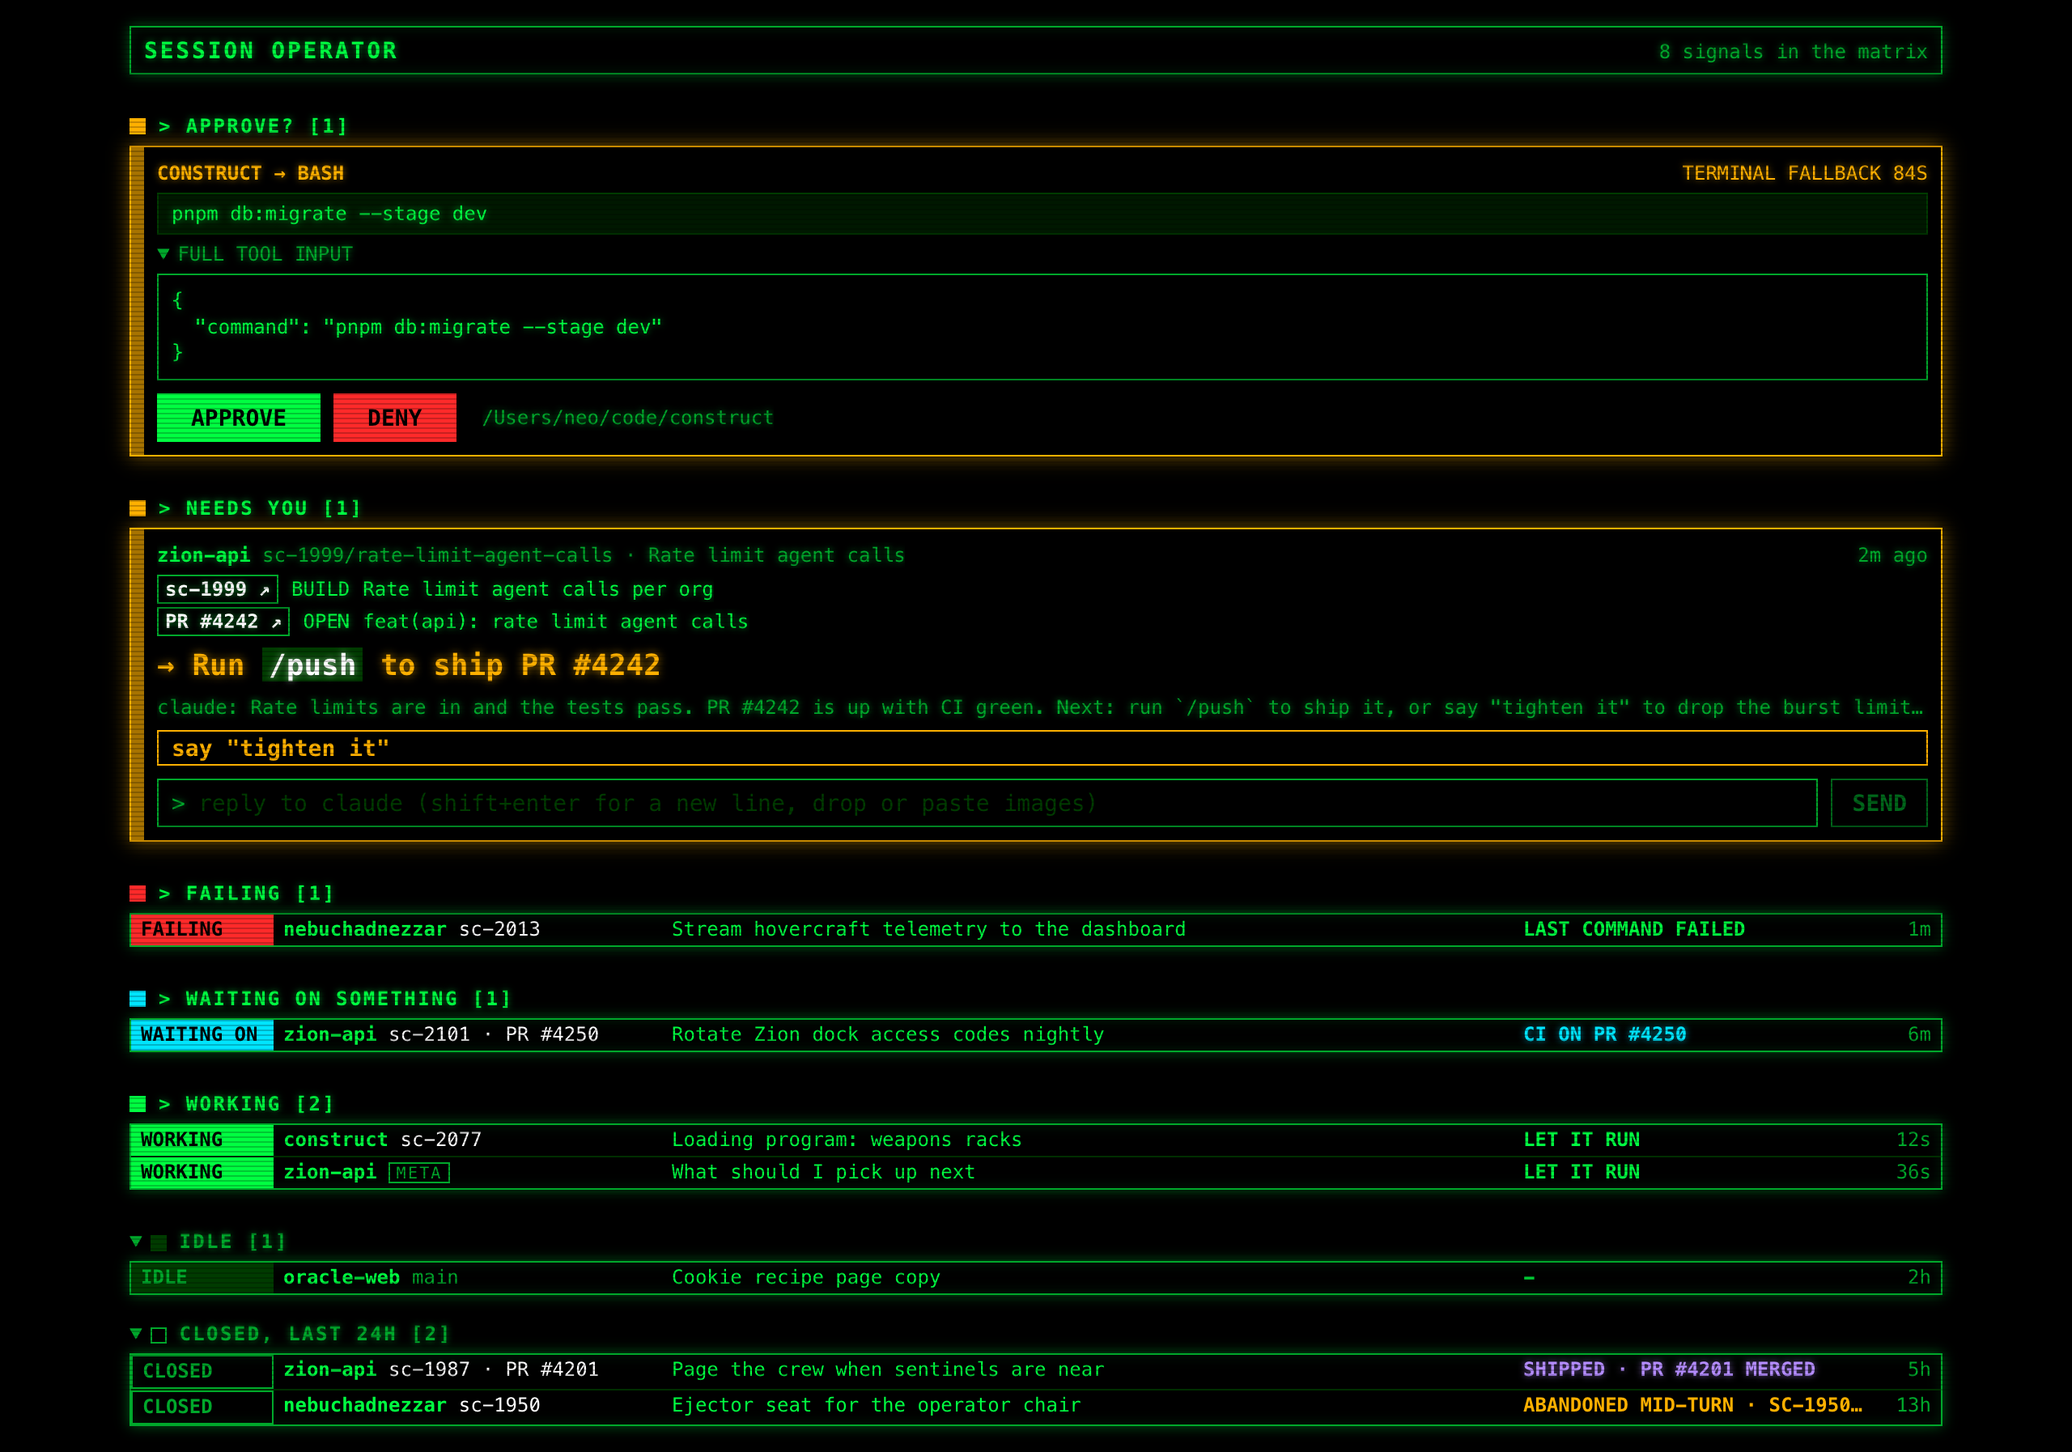
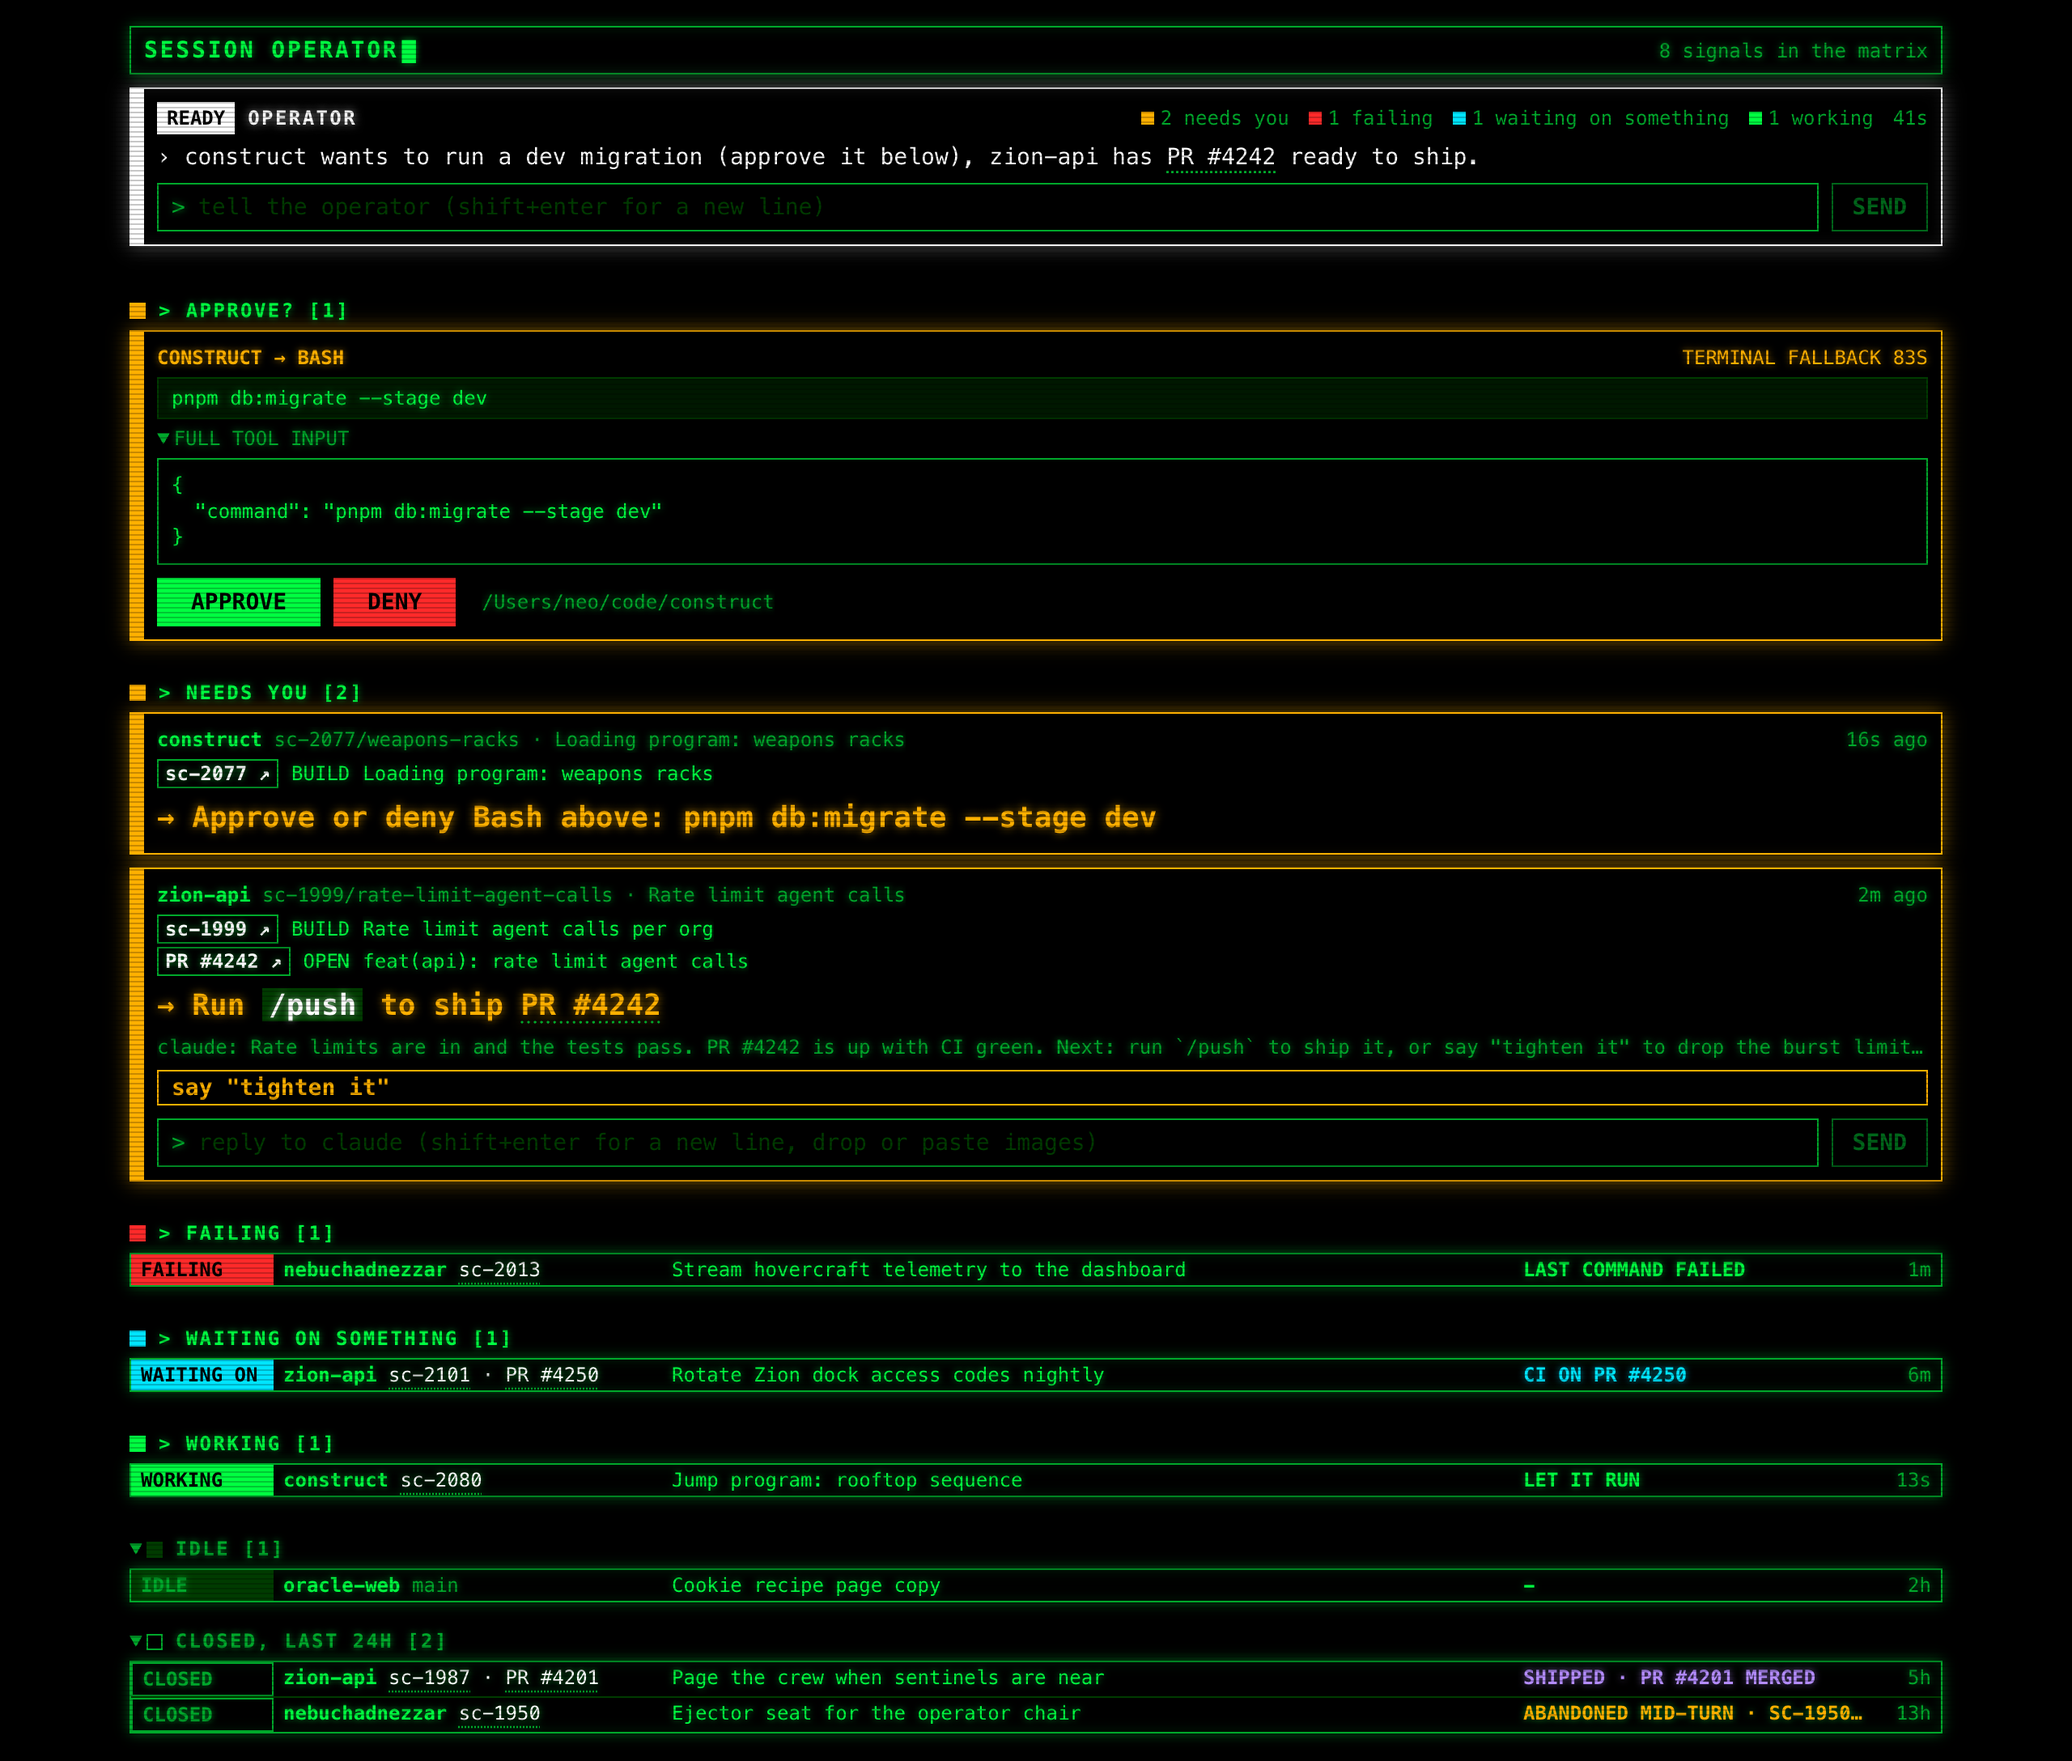
docs: refresh the README screenshot
The old one predated the operator console and the ref links. Same made-up demo data,
captured from the current build.

Claude-Session: https://claude.ai/code/session_018XuCMdMSwR75DDu2e1toDx

Changed region(s): [[0.0312, 0.0, 0.9688, 0.9989]]

diff --git a/README.md b/README.md
@@ -3,7 +3,7 @@
 One calm page for all the Claude Code sessions running on this Mac. It shows what each
 session is doing, and when one needs a permission you can approve or deny it here.
 
-![Session operator with sessions that need approval, need a reply, are failing, waiting on CI, working, idle and closed](docs/screenshot.png)
+![Session operator with the operator console pinned on top, and sessions that need approval, need a reply, are failing, waiting on CI, working, idle and closed](docs/screenshot.png)
 
 <sub>Demo data. The sessions, cards and PRs in the screenshot are made up.</sub>
 
